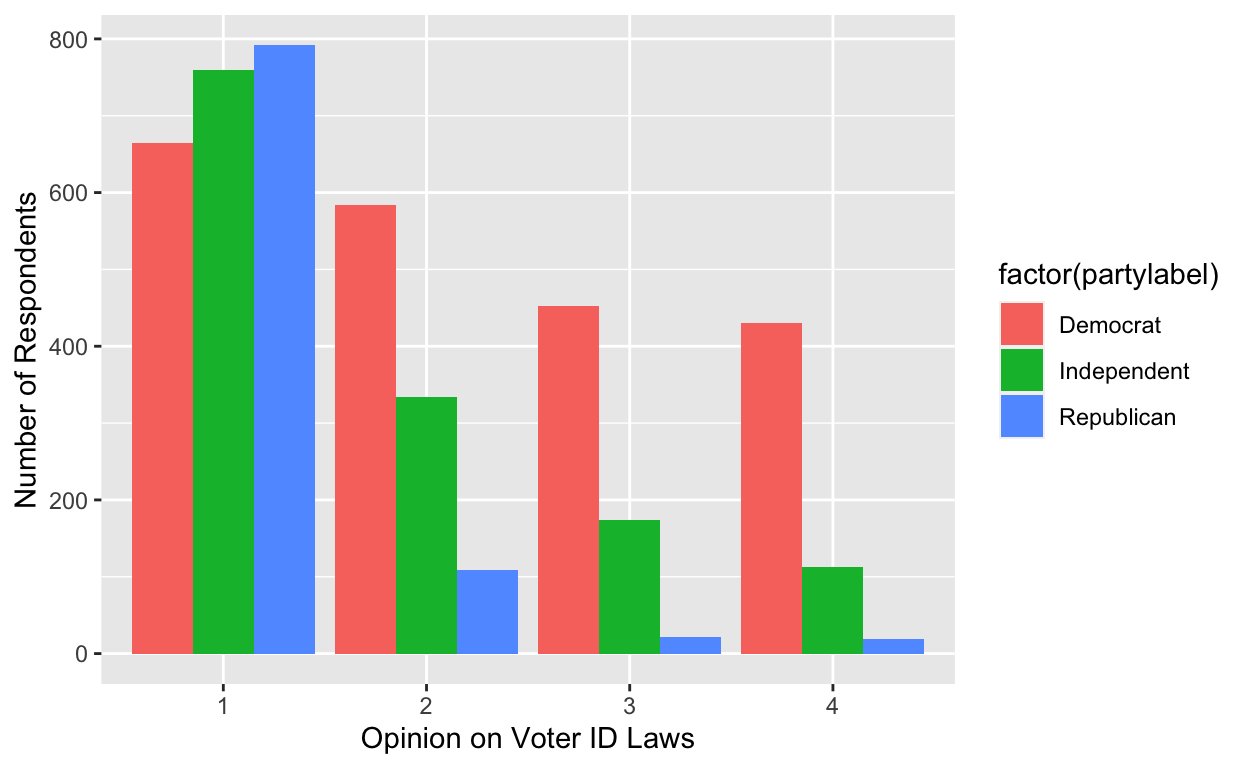
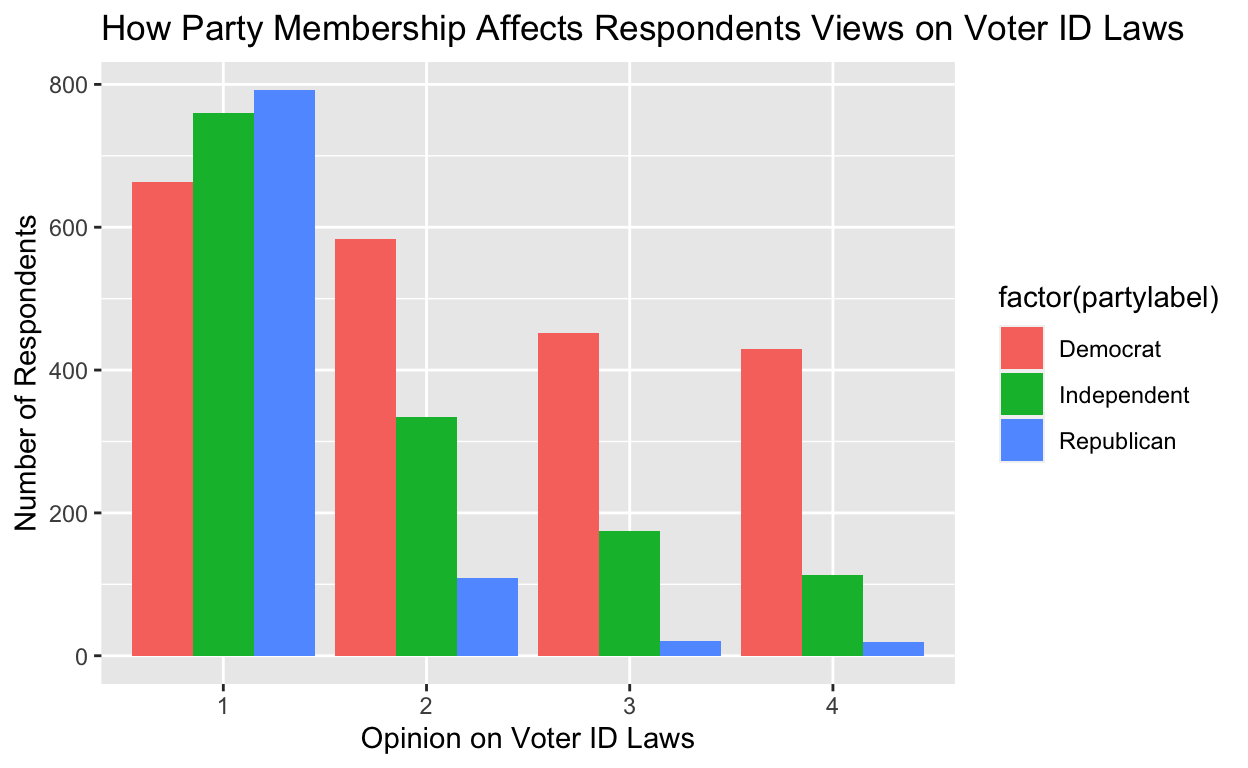
Final Project Milestone 3 -- Finished

diff --git a/index.html b/index.html
@@ -1545,7 +1545,7 @@ code span.wa { color: #5e5e5e; font-style: italic; } /* Warning */
 <span>  <span class='fu'><a href='https://dplyr.tidyverse.org/reference/group_by.html'>group_by</a></span><span class='op'>(</span><span class='va'>party</span><span class='op'>)</span> <span class='op'>|&gt;</span></span>
 <span>  <span class='fu'><a href='https://ggplot2.tidyverse.org/reference/ggplot.html'>ggplot</a></span><span class='op'>(</span><span class='fu'><a href='https://ggplot2.tidyverse.org/reference/aes.html'>aes</a></span><span class='op'>(</span>x <span class='op'>=</span> <span class='fu'><a href='https://rdrr.io/r/base/factor.html'>factor</a></span><span class='op'>(</span><span class='va'>voteridlaws</span><span class='op'>)</span>, fill <span class='op'>=</span> <span class='fu'><a href='https://rdrr.io/r/base/factor.html'>factor</a></span><span class='op'>(</span><span class='va'>partylabel</span><span class='op'>)</span><span class='op'>)</span><span class='op'>)</span> <span class='op'>+</span></span>
 <span>  <span class='fu'><a href='https://ggplot2.tidyverse.org/reference/geom_bar.html'>geom_bar</a></span><span class='op'>(</span>position <span class='op'>=</span> <span class='st'>"dodge"</span><span class='op'>)</span> <span class='op'>+</span></span>
-<span>  <span class='fu'><a href='https://ggplot2.tidyverse.org/reference/labs.html'>labs</a></span><span class='op'>(</span>x <span class='op'>=</span> <span class='st'>"Opinion on Voter ID Laws"</span>, y <span class='op'>=</span> <span class='st'>"Number of Respondents"</span><span class='op'>)</span></span>
+<span>  <span class='fu'><a href='https://ggplot2.tidyverse.org/reference/labs.html'>labs</a></span><span class='op'>(</span>x <span class='op'>=</span> <span class='st'>"Opinion on Voter ID Laws"</span>, y <span class='op'>=</span> <span class='st'>"Number of Respondents"</span>, title <span class='op'>=</span> <span class='st'>"How Party Membership Affects Respondents Views on Voter ID Laws"</span><span class='op'>)</span></span>
 <span></span>
 <span><span class='va'>voterid_plot_party</span></span></code></pre>
 </div>
@@ -1564,7 +1564,7 @@ code span.wa { color: #5e5e5e; font-style: italic; } /* Warning */
 <span>  <span class='fu'><a href='https://dplyr.tidyverse.org/reference/group_by.html'>group_by</a></span><span class='op'>(</span><span class='va'>party</span><span class='op'>)</span> <span class='op'>|&gt;</span></span>
 <span>  <span class='fu'><a href='https://ggplot2.tidyverse.org/reference/ggplot.html'>ggplot</a></span><span class='op'>(</span><span class='fu'><a href='https://ggplot2.tidyverse.org/reference/aes.html'>aes</a></span><span class='op'>(</span>x <span class='op'>=</span> <span class='fu'><a href='https://rdrr.io/r/base/factor.html'>factor</a></span><span class='op'>(</span><span class='va'>automaticregistration</span><span class='op'>)</span>, fill <span class='op'>=</span> <span class='fu'><a href='https://rdrr.io/r/base/factor.html'>factor</a></span><span class='op'>(</span><span class='va'>partylabel</span><span class='op'>)</span><span class='op'>)</span><span class='op'>)</span> <span class='op'>+</span></span>
 <span>  <span class='fu'><a href='https://ggplot2.tidyverse.org/reference/geom_bar.html'>geom_bar</a></span><span class='op'>(</span>position <span class='op'>=</span> <span class='st'>"dodge"</span><span class='op'>)</span> <span class='op'>+</span></span>
-<span>  <span class='fu'><a href='https://ggplot2.tidyverse.org/reference/labs.html'>labs</a></span><span class='op'>(</span>x <span class='op'>=</span> <span class='st'>"Opinion on Automatic Registration"</span>, y <span class='op'>=</span> <span class='st'>"Number of Respondents"</span><span class='op'>)</span></span>
+<span>  <span class='fu'><a href='https://ggplot2.tidyverse.org/reference/labs.html'>labs</a></span><span class='op'>(</span>x <span class='op'>=</span> <span class='st'>"Opinion on Automatic Registration"</span>, y <span class='op'>=</span> <span class='st'>"Number of Respondents"</span>, title <span class='op'>=</span> <span class='st'>"How Party Membership Affects Respondents Views on Automatic Registration"</span><span class='op'>)</span></span>
 <span></span>
 <span><span class='va'>automatic_registration_plot_party</span></span></code></pre>
 </div>
